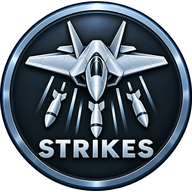
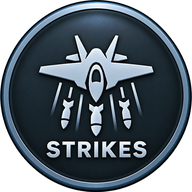
The STRIKES badge is the new art
Cut tight to its disc and resampled to 192 px like the other four.

Claude-Session: https://claude.ai/code/session_01Vm4UdrLmhsEiZM8Dk4Wi6F

diff --git a/docs/UNITS.md b/docs/UNITS.md
@@ -76,9 +76,9 @@ the Tomahawk. The split is by that field, not by tier, so a new strike
 lands in the right drawer without a list to update. The armed weapon is
 worn by the button it came from, and tapping that button puts it away.
 Number keys pick from UNITS; Shift with a number, or a number while the
-STRIKES drawer is open, picks from STRIKES. The STRIKES badge in
-`src/ui/dock/strikes.png` is drawn on the ORDERS disc to match the set;
-drop finished art over it at 192 × 192.
+STRIKES drawer is open, picks from STRIKES. The badge in
+`src/ui/dock/strikes.png` is the supplied art, cut tight to its disc and
+resampled to 192 × 192 like the other four, so the circles match.
 
 ## Icons
 
